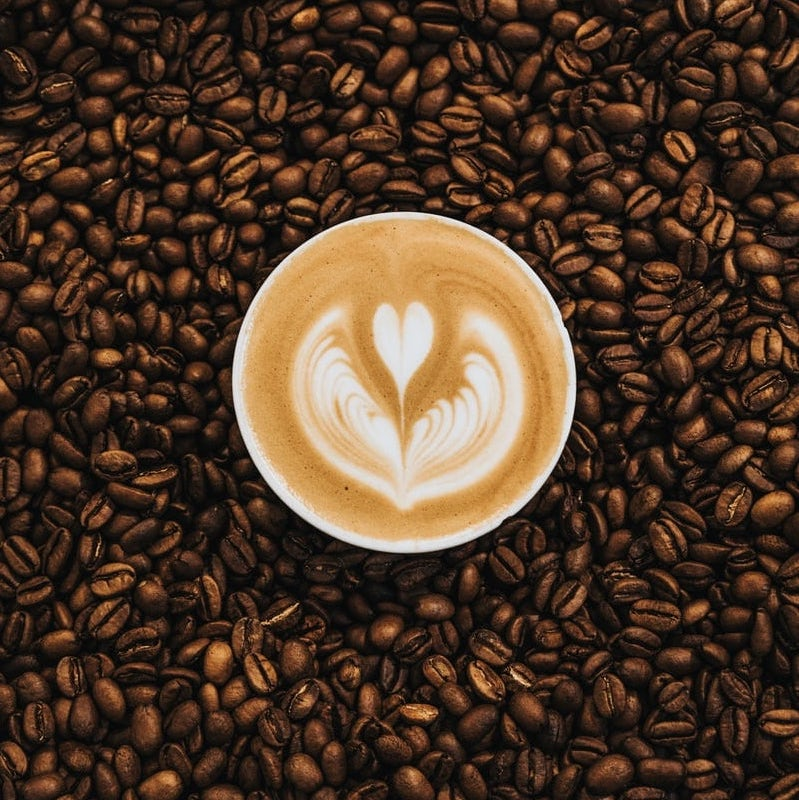
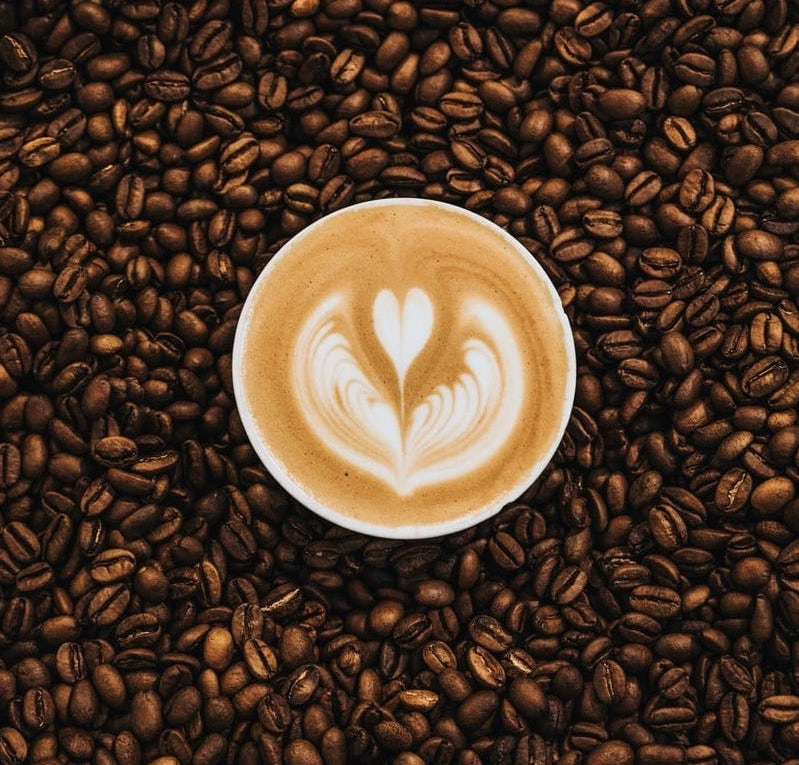
finished

diff --git a/project-2-charlies/css/styles.css b/project-2-charlies/css/styles.css
@@ -29,10 +29,11 @@ html {
  }
   
  h2 {
-    font-size: 46px;
+    font-size: 44px;
     font-weight: 500;
     letter-spacing: 2px;
     margin-top: 2rem;
+    line-height: 1.3;
  }
   
  h3 {
@@ -227,7 +228,7 @@ td:first-child {
       max-height: 100px;
       margin-top: .5rem;
       margin-bottom: .5rem;
-      margin-left: 0;
+      margin-left: 1rem;
     }
 
    .drinks {
@@ -248,10 +249,9 @@ td:first-child {
    }
    
    section img{
-      margin-top: 9rem;
-      max-width: 350px;
-      max-height: 350px;
-      margin-left: 2rem;
+      margin-top: 6.9rem;
+      max-width: 335px;
+      max-height: 325px;
   }
 
     .two-column {
@@ -301,9 +301,9 @@ td:first-child {
    }
 
     section img{
-        margin-top: 9rem;
+        margin-top: 8.1rem;
         max-width: 600px;
-        max-height: 600px;
+        max-height: 575px;
     }
 
     .hero {
@@ -369,5 +369,7 @@ td:first-child {
     footer {
         font-size: 25px;
     }
-
+    header img {
+       margin-left: 13.5rem;
+    }
  }
